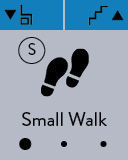
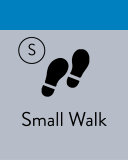
Added and replaced images until single step normal.

diff --git a/march_rqt_input_device/src/march_rqt_input_device/input_device_view.py b/march_rqt_input_device/src/march_rqt_input_device/input_device_view.py
@@ -41,11 +41,11 @@ class InputDevicePlugin(Plugin):
 
         # Create buttons here
         rocker_switch_increment = \
-            self.create_button('rocker_switch_up', color_code='#239b56',
+            self.create_button('rocker_switch_up', image_path='/rocker_switch_up.png',
                                callback=lambda: self.controller.publish_increment_step_size())
 
         rocker_switch_decrement = \
-            self.create_button('rocker_switch_down', color_code='#239b56',
+            self.create_button('rocker_switch_down', image_path='/rocker_switch_down.png',
                                callback=lambda: self.controller.publish_decrement_step_size())
 
         home_sit = \
@@ -61,7 +61,7 @@ class InputDevicePlugin(Plugin):
                                callback=lambda: self.controller.publish_gait('gait_sit'))
 
         gait_walk = \
-            self.create_button('gait_walk', image_path='/gait_walk_normal.png',
+            self.create_button('gait_walk', image_path='/gait_walk.png',
                                callback=lambda: self.controller.publish_gait('gait_walk'))
 
         gait_walk_small = \
@@ -69,7 +69,7 @@ class InputDevicePlugin(Plugin):
                                callback=lambda: self.controller.publish_gait('gait_walk_small'))
 
         gait_walk_large = \
-            self.create_button('gait_walk_large',
+            self.create_button('gait_walk_large', image_path='/gait_walk_large.png',
                                callback=lambda: self.controller.publish_gait('gait_walk_large'))
 
         gait_single_step_small = \
@@ -77,7 +77,7 @@ class InputDevicePlugin(Plugin):
                                callback=lambda: self.controller.publish_gait('gait_single_step_small'))
 
         gait_single_step_normal = \
-            self.create_button('gait_single_step_normal', image_path='/gait_single_step_normal.png',
+            self.create_button('gait_single_step_normal', image_path='/gait_single_step_medium.png',
                                callback=lambda: self.controller.publish_gait('gait_single_step_normal'))
 
         gait_side_step_left = \
@@ -207,10 +207,10 @@ class InputDevicePlugin(Plugin):
         stop_button = self.create_button('gait_stop', image_path='/stop.png',
                                          callback=lambda: self.controller.publish_stop())
 
-        pause_button = self.create_button('gait_pause',
+        pause_button = self.create_button('gait_pause', image_path='/pause.png',
                                           callback=lambda: self.controller.publish_pause())
 
-        continue_button = self.create_button('gait_continue',
+        continue_button = self.create_button('gait_continue', image_path='/continue.png',
                                              callback=lambda: self.controller.publish_continue())
 
         error_button = self.create_button('error', image_path='/error.png',
